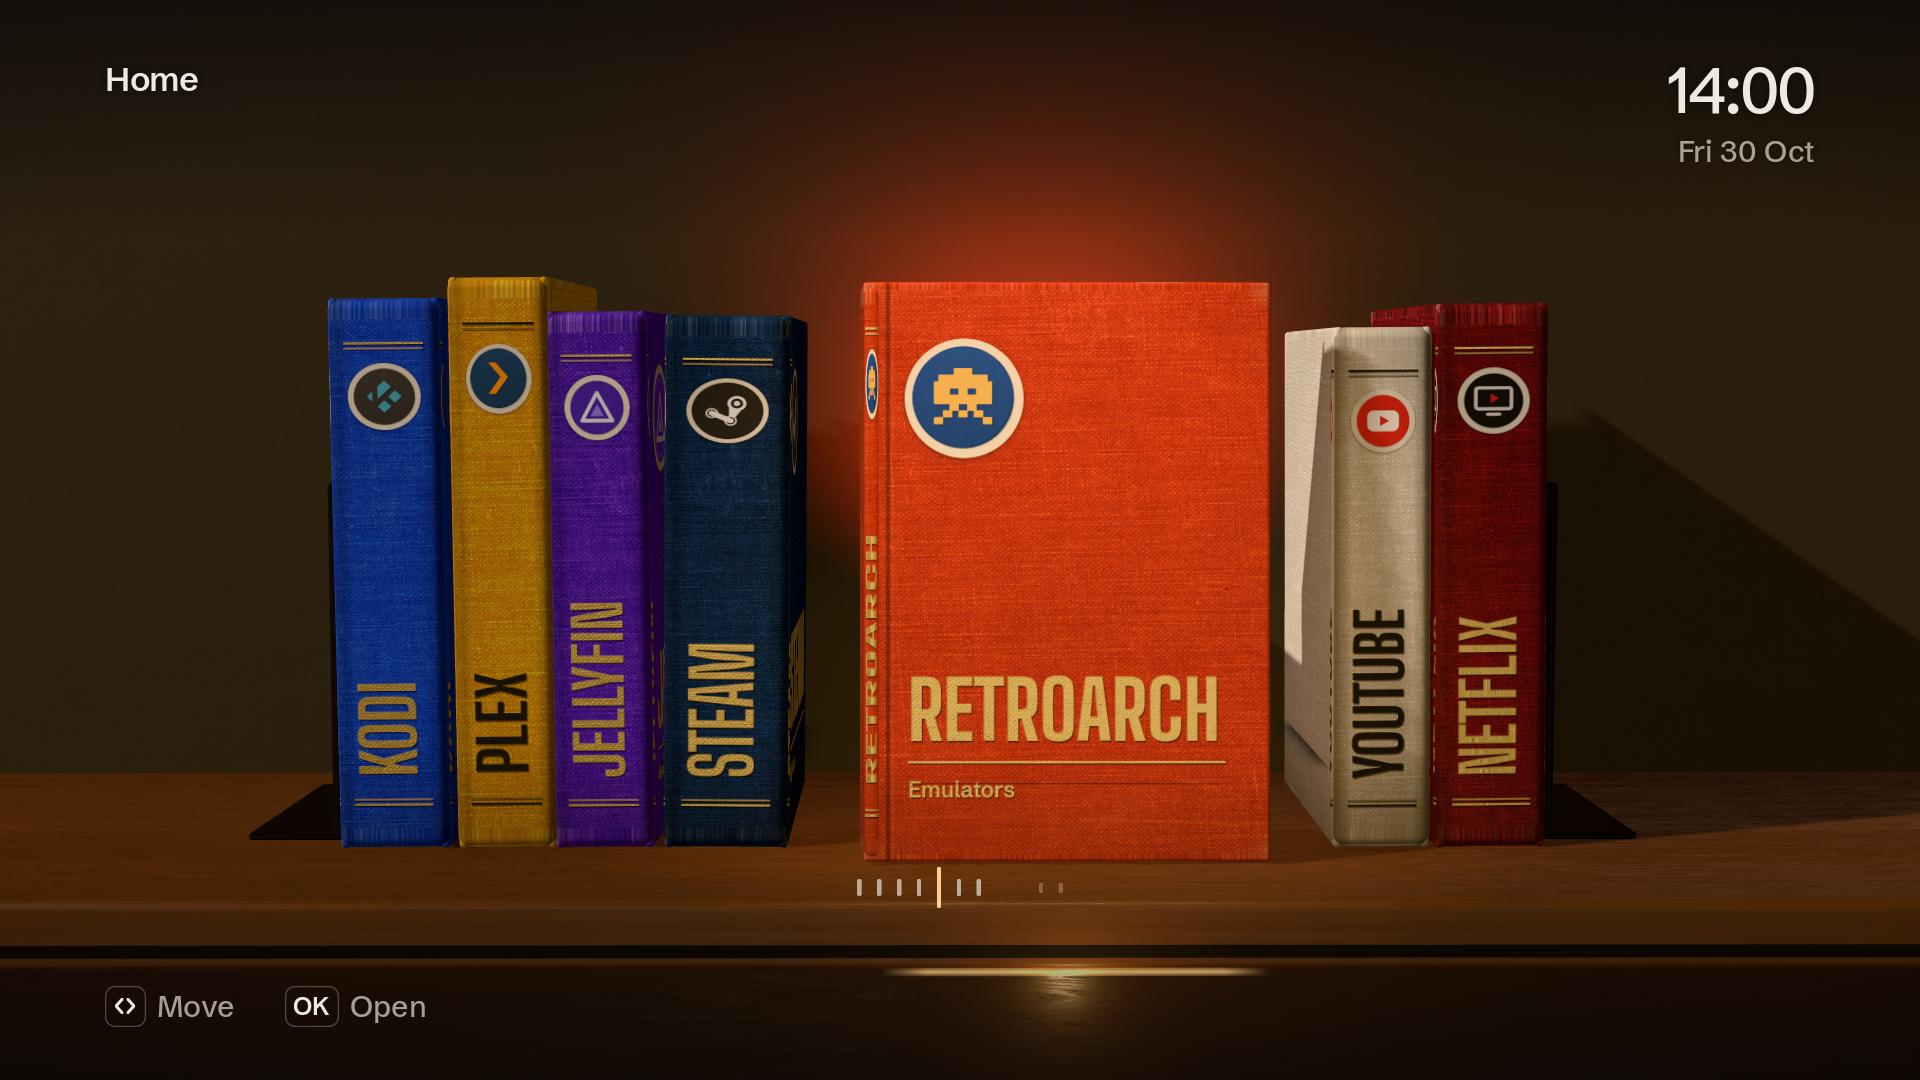
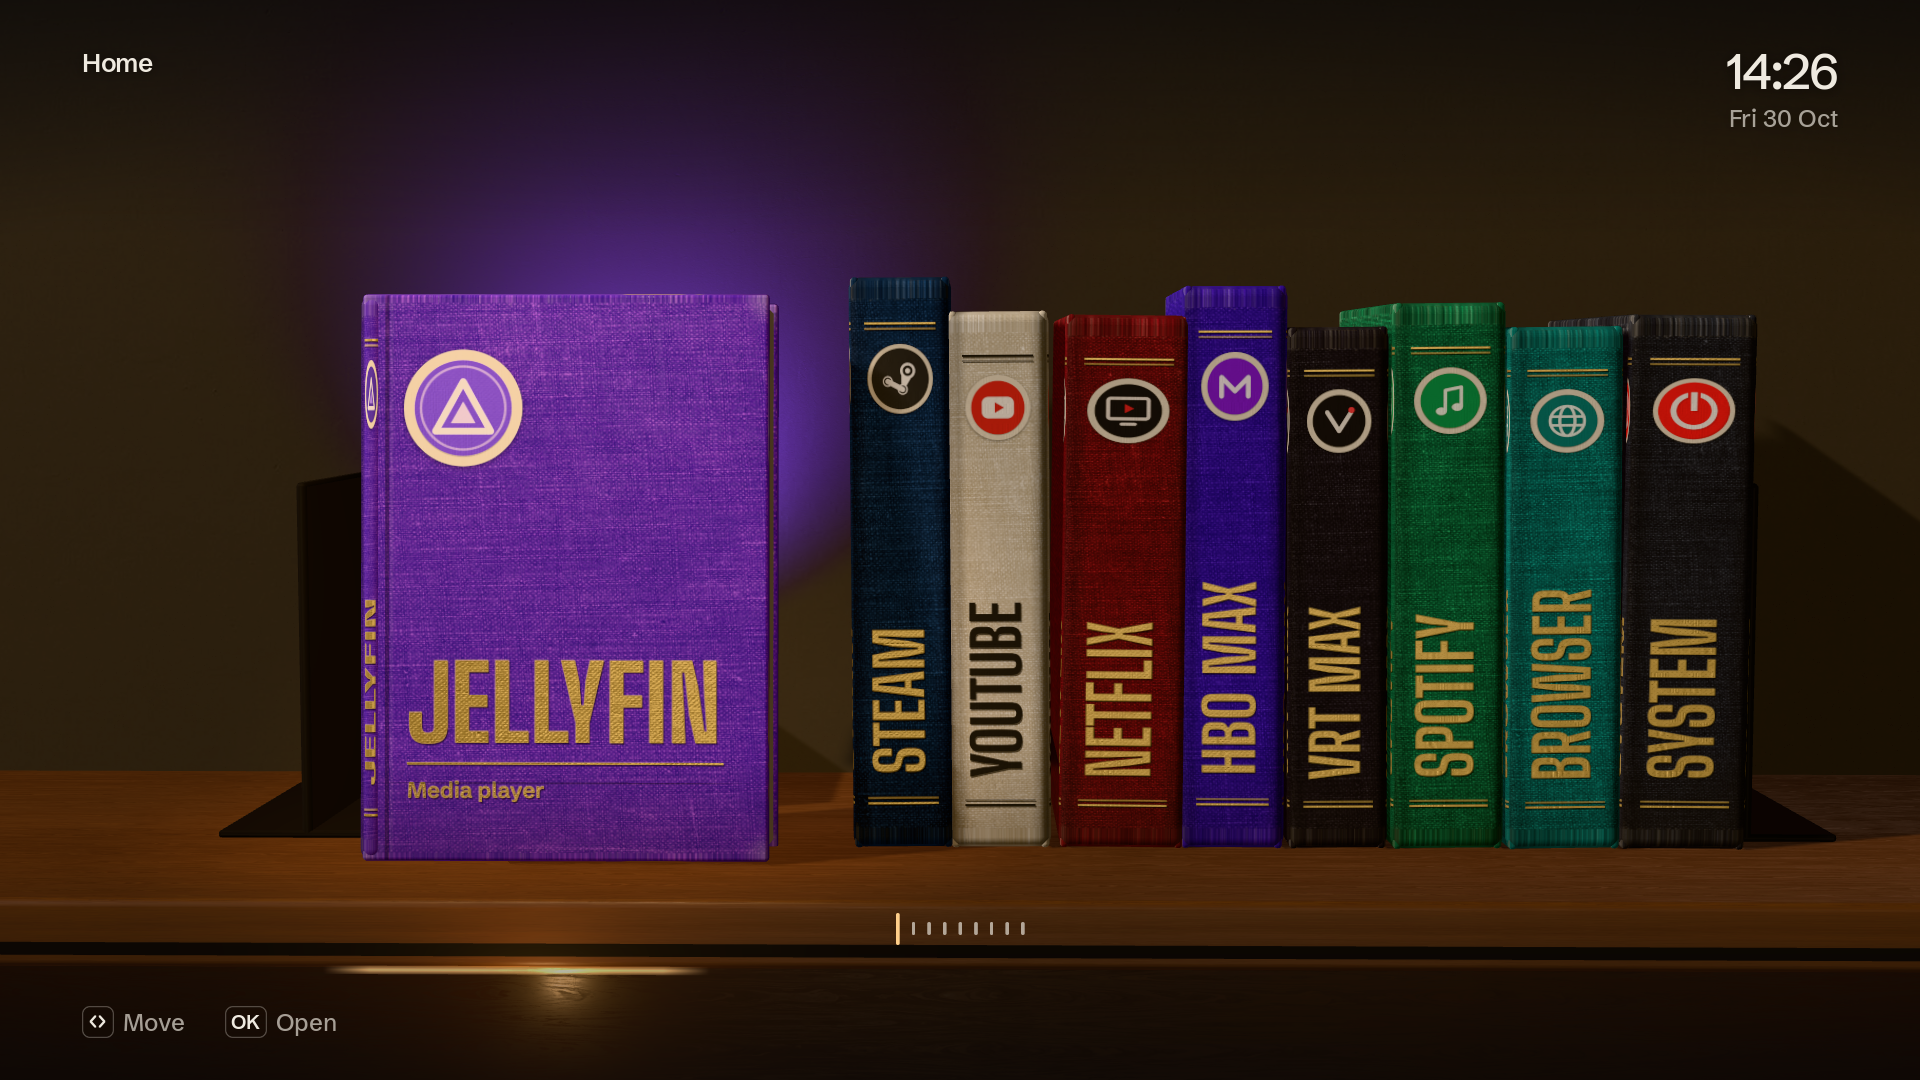
Home shelf: one stack of streaming apps
Drop Kodi, Plex and RetroArch from the default Home menu and add
Spotify, so Home holds Jellyfin, Steam, YouTube, Netflix, HBO Max,
VRT MAX, Spotify, Browser and System. MaxButtons now defaults to 10 so
all nine share one stack. The removed books keep their colours and
cover lines in [Book Colors] and [Book Notes], so adding one back is a
single Entry line.

CI captures follow the new menu and wait longer for Mesa's software
renderer to settle.

diff --git a/README.md b/README.md
@@ -56,7 +56,7 @@ HBO Max=hbomax.com
 ```
 
 A book without a colour takes one from its icon; power and menu commands get a cover line of their own.
-`MaxButtons` under `[Layout]` sets how many books share a page (7 by default).
+`MaxButtons` under `[Layout]` sets how many books share one stack (10 by default); a menu with more books continues on a second stack.
 
 ### Shelf settings
 
